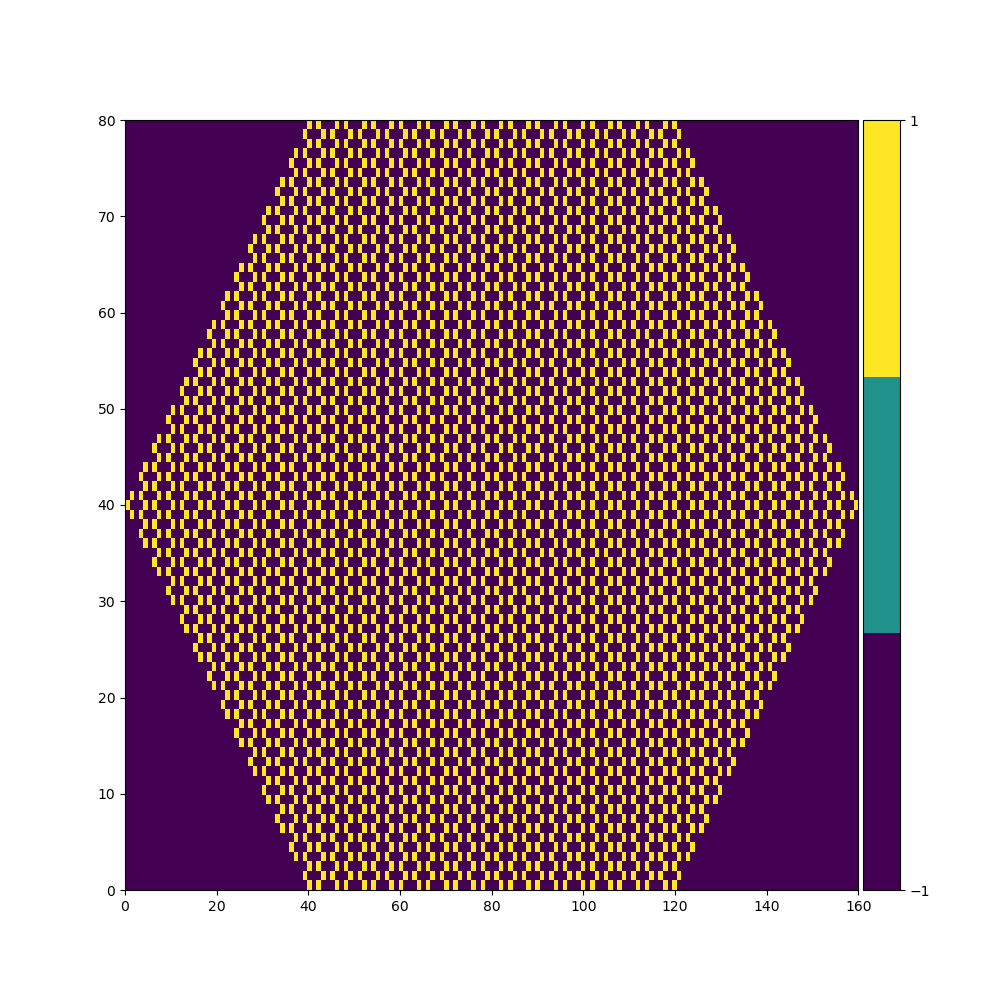
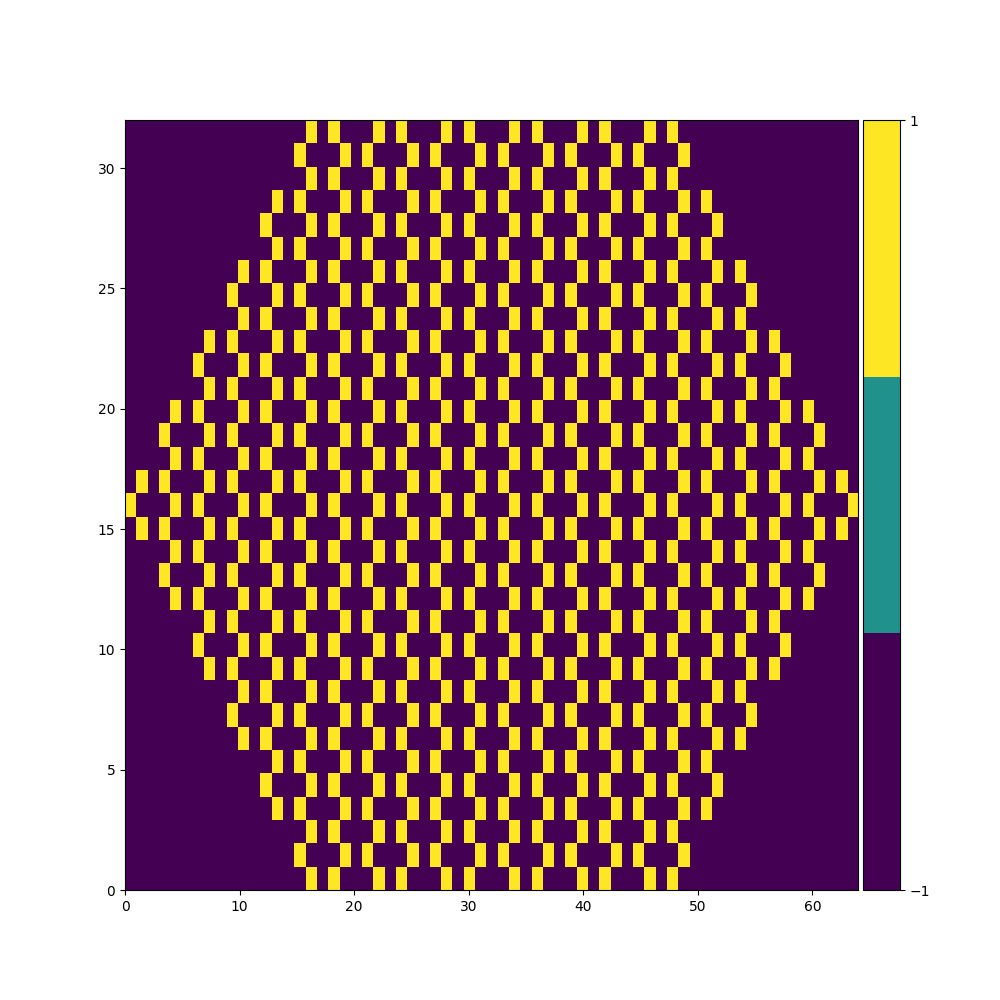
working pbc

diff --git a/Hexaflake/hexaflake.py b/Hexaflake/hexaflake.py
@@ -1,6 +1,7 @@
 import numpy as np
 from matplotlib import pyplot as plt
 from time import time
+from numba import jit
 
 import sys
 sys.path.append(".")
@@ -31,7 +32,7 @@ def honeycomb_lattice(side_length:int) -> np.ndarray:
         hex_row[1] -= np.mean(hex_row[1])
 
         return hex_row
-        
+                
 
     hexagon_lattice = np.empty((2, 1))
 
@@ -73,24 +74,26 @@ def hexaflake_lattice(generation:int) -> np.ndarray:
     return fractal_iteration(generation)
 
 
-def _create_lattice(positions:np.ndarray):
-    positions[0] *= 2.0
-    positions[1] *= 2/np.sqrt(3)
-
-    positions[0] -= np.min(positions[0])
-    positions[1] -= np.min(positions[1])
-
-    positions = np.round(positions, 0).astype(int)
-
-    lattice = np.ones((np.max(positions[1]).astype(int)+1, np.max(positions[0]).astype(int)+1), dtype=int)*(-1)
-    lattice[positions[1], positions[0]] = np.ones(positions.shape[1]) 
-
-    fills = np.argwhere(lattice >= 0)
-    holes = np.argwhere(lattice < 0)
-    return positions, lattice, fills, holes
-
-
 def fractal_and_honeycomb_lattices(generation:int, honeycomb_side_length:int):
+    """
+    
+    """
+    def _create_lattice(positions:np.ndarray):
+        positions[0] *= 2.0
+        positions[1] *= 2/np.sqrt(3)
+
+        positions[0] -= np.min(positions[0])
+        positions[1] -= np.min(positions[1])
+
+        positions = np.round(positions, 0).astype(int)
+
+        lattice = np.ones((np.max(positions[1]).astype(int)+1, np.max(positions[0]).astype(int)+1), dtype=int)*(-1)
+        lattice[positions[1], positions[0]] = np.ones(positions.shape[1]) 
+
+        fills = np.argwhere(lattice >= 0)
+        holes = np.argwhere(lattice < 0)
+        return positions, lattice, fills, holes
+    
     hexaflake = hexaflake_lattice(generation)
     honeycomb = honeycomb_lattice(honeycomb_side_length)
 
@@ -99,113 +102,129 @@ def fractal_and_honeycomb_lattices(generation:int, honeycomb_side_length:int):
 
     return fractal_lattice, fractal_fills, fractal_holes, pristine_lattice, pristine_fills, pristine_holes
 
-def get_hopping_sites(lattice:np.ndarray, fills:np.ndarray, pbc:bool=False):
-    # List of directions (delta y, delta x):
-    # From red to blue A1, A2, A3:
-    # 0, -2 
-    # 1, 1
-    # -1, 1
-    # From blue to red B1, B2, B3:
-    # 0, 2
-    # -1, -1
-    # 1, -1
+def get_hopping_sites(fills:np.ndarray, pbc:bool=False):
+    """
+    
+    """
+    def _pbc_tile(init_pos:np.ndarray) -> "list[np.ndarray]":  
+        """
+        Presumes scaling such that positions are integer values. 
+        Parameters:  
+        init_lattice_positions (ndarray): 2 x N array, such that the first row is x-positions and the second is y-positions.
+        """
+        x_max, y_max = np.max(init_pos[0]), np.max(init_pos[1])
 
+        lab = ['tr', 'tl', 'br', 'bl', 't', 'b']
+        displacements = [None]*6
+        displacements[0] = [x_max*3/4+3, y_max/2-1]
+        displacements[1] = [-x_max*3/4, y_max/2+2]
+        displacements[2] = [x_max*3/4, -y_max/2-2]
+        displacements[3] = [-x_max*3/4-3, -y_max/2+1]
+        displacements[4] = [3, y_max+1]
+        displacements[5] = [-3, -y_max-1]
+        
+        tiles = []
+        for d in displacements:
+            tiles.append(init_pos+np.array(d).reshape(2, 1))
+
+        if True:
+            cmap = plt.colormaps['viridis']
+            colors = cmap(np.linspace(0, 1, 7))
+
+            fig, ax = plt.subplots(1, 1, figsize=(10, 10))
+            for i in range(len(tiles)):
+                ax.scatter(tiles[i][0], tiles[i][1], label=lab[i], c=colors[i], alpha=1.0)
+            ax.scatter(init_pos[0], init_pos[1], label='init', c=colors[-1], alpha=1.0)
+            ax.legend()
+            plt.show()
+
+        return tiles
+    
+    def _get_mean_xy(_p):
+        # xmin, xmax, xmean, ymin, ymax, ymean
+        values = [np.min(_p[0]), np.max(_p[0]), np.mean(_p[0]),
+                  np.min(_p[1]), np.max(_p[1]), np.mean(_p[1])]
+        return [values[2], values[5]]
+
+
+    # Six hop types, labels for each hop
     hops = [[0, -2], [1, 1],   [-1, 1], [0, 2],  [-1, -1], [1, -1]] # A1, A2, A3, B1, B2, B3
     hop_type = [f'{l}{i}' for l in ['A', 'B'] for i in [1, 2, 3]]
 
-    full_arr_hops = []
+    # The integer-array positions of every point in the lattice
+    init_lattice_positions = np.flipud(fills.T)
+
+    # Six arrays of all possible hops from one lattice site to another
+    all_possible_hops = []
     for hop in hops:
-        full_arr_hops.append(fills + np.array(hop).reshape(1, 2))
+        all_possible_hops.append(init_lattice_positions + np.array(hop).reshape(2, 1))
+
+    # Create six identical lattices tiled around the initial lattice.
+    pbc_arrays = _pbc_tile(init_lattice_positions)
+    pbc_labels = ['tr', 'tl', 'br', 'bl', 't', 'b']
+
+    # Calculate the hopping for each site
+    valid_hops = []
+    pbc_hops = []
+    init_means = _get_mean_xy(init_lattice_positions)
+    for i in range(len(hops)):
+        for j in range(all_possible_hops[i].size//2):
+            init_site = init_lattice_positions[:, j].flatten()
+            site = all_possible_hops[i][:, j].reshape(2, 1)
 
 
-    def pbc_tile():
-        points = np.flip(fills.T, axis=0)   
-        plt.scatter(points[0], points[1])
-
-        plt.show()
-        "points (ndarray): 2xN array, such that the first row is x-positions and the second is y-positions."
-        range_y = np.max(points[1]) - np.min(points[1])
-        a = 3
-        b = range_y+1
-        theta = np.pi/2 - np.arctan(a/b)
-        r = np.sqrt(a**2 + b**2)
-
-        tile_arrs = []
-        for i in range(6):
-            new_points = points + np.array([[r*np.cos(theta+np.pi/3*i)], [r*np.sin(theta+np.pi/3*i)]])
-            tile_arrs.append(new_points)
-            
-        return tile_arrs
-    
-
-    points = np.flip(fills.T, axis=0)
-    possible_hop_locations = []
-    for hop in hops:
-        possible_hop_locations.append(points + np.array(hop).reshape(2, 1))
-
-
-    
-    tiles = pbc_tile()
-
-    site_hops = []
-    for i in range(len(possible_hop_locations)):
-        for j in range(possible_hop_locations[i].shape[1]):
-            site = possible_hop_locations[i][:, j].reshape(2, 1)
-            if any(np.equal(points, site).all(1)):
-                site_hops.append([list(fills[j, :]), list(site), hop_type[i]])
-            elif pbc:
-                for tile in tiles:
-                    print(tile)
-                    if any(np.equal(tile, site).all(1)):
-                        print('hit')
-                        found = np.all(tile == site, axis=1)
-                        
-
-                        tile[0] -= np.min(tile[0])
-                        tile[1] -= np.min(tile[1])
-
-
-
-    return
-
-    site_hops = []
-    for i in range(len(full_arr_hops)):
-        for j in range(len(full_arr_hops[i])):
-            site = full_arr_hops[i][j]
-            if site[0] < lattice.shape[0] and site[1] < lattice.shape[1]:
-                if lattice[site[0], site[1]] >= 0:
-                    site_hops.append([list(fills[j, :]), list(site), hop_type[i]])
-            elif pbc:
-                for tile in tiles:
-                    pass
+            if any(np.equal(init_lattice_positions, site).all(0)):
+                valid_hops.append([init_site.tolist(), site.flatten().tolist(), hop_type[i]])
             else:
                 pass
 
+            if pbc:
+                for k in range(len(pbc_arrays)):
+                    new_means = _get_mean_xy(pbc_arrays[k])
+                    if any(np.equal(pbc_arrays[k], site).all(0)):
+                        # Wrap into inital lattice
+                        displacement = np.array([init_means[0]-new_means[0], init_means[1]-new_means[1]])
+                        site_in_init = (site.flatten() + displacement.flatten()).reshape(2, 1).astype(int)
 
-    for e in site_hops:
-        if e[0] == [70, 58]:
-            print(e)
+                        # Check
+                        if any(np.equal(init_lattice_positions, site_in_init).all(0)):
+                            pass
+                        else:
+                            raise ValueError(f"Issue regarding site_in_init: init, site, site_in_init = {init_site}, {site}, {site_in_init}")
+                        
+                        pbc_hops.append([init_site.tolist(), site_in_init.flatten().tolist(), hop_type[i]])
+                        break
+                    else:
+                        pass
     
+    for e in pbc_hops:
+        print(e)
     
-    
+    if not pbc:
+        return valid_hops
+    else:
+        return valid_hops+pbc_hops
 
 
 
 if __name__ == "__main__":
 
-    #np.set_printoptions(threshold=np.inf, edgeitems=30, linewidth=10000, formatter=dict(float=lambda x: "%.3g" % x))
+    np.set_printoptions(threshold=np.inf, edgeitems=30, linewidth=10000, formatter=dict(float=lambda x: "%.3g" % x))
 
     generation = 3
     side_length = 14
+    t0 = time()
     fractal_lattice, fractal_fills, fractal_holes, pristine_lattice, pristine_fills, pristine_holes = fractal_and_honeycomb_lattices(generation, side_length)
+    print(f"time to generate lattices: {time()-t0:.3f}s")
+    get_hopping_sites(fractal_fills, True)
 
-    if True:
+
+    if False:
         fig, ax = plt.subplots(1, 1, figsize=(10, 10))
-        fig, ax, cbar = plot_imshow(fig, ax, np.arange(pristine_lattice.shape[1]), np.arange(pristine_lattice.shape[0]), pristine_lattice, doDiscreteCmap=True)
-        plt.savefig('pristine_imshow.png')
-        plt.show()
 
-    get_hopping_sites(pristine_lattice, pristine_fills, True)
+        #fig, ax, cbar = plot_imshow(fig, ax, np.arange(pbc_lattice_arrs.shape[1]), np.arange(pbc_lattice_arrs.shape[0]), pbc_lattice_arrs, doDiscreteCmap=True)
+        #plt.savefig('pristine_imshow.png')
+        plt.show()
 
     if False:
         fig, ax = plt.subplots(1, 1, figsize=(10, 10))

diff --git a/Hexaflake/testing_file.py b/Hexaflake/testing_file.py
@@ -1,12 +1,14 @@
 import numpy as np
 
 n=20
-arr = np.arange(n).reshape(2, n//2).T
+arr = np.arange(n).reshape(2, n//2)
 
 print(arr)
 
-s = np.array([4, 14])
+s = np.array([[4], [14]])
 
+print(arr.shape)
+print(s.shape)
 
 if any(np.equal(arr, s).any(1)):
     print("True")
